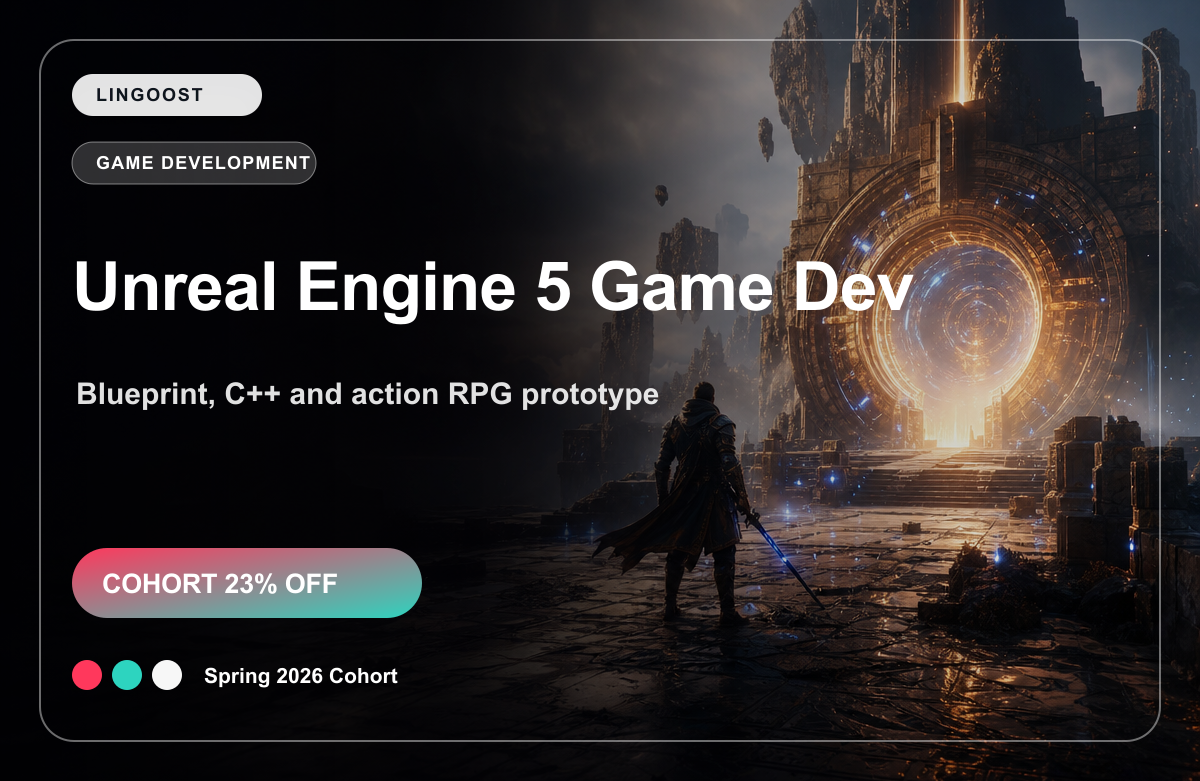
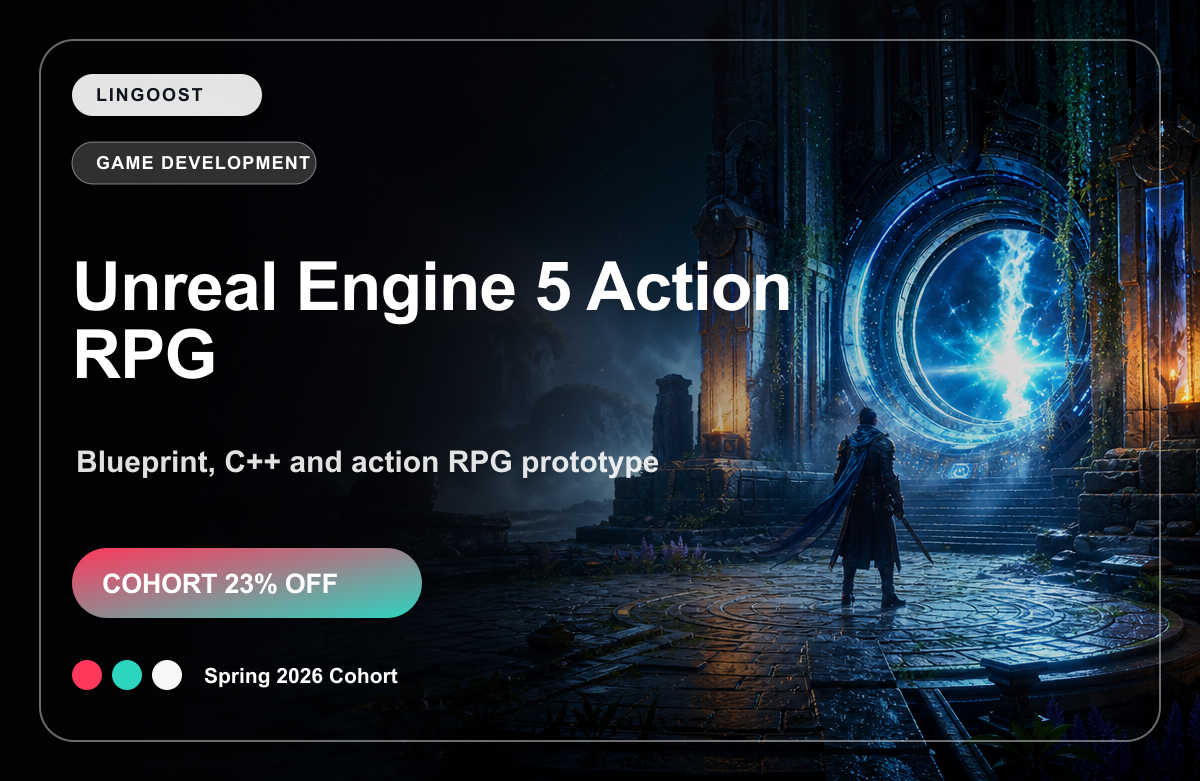
Fill game development course row

diff --git a/src/lib/mock-courses.ts b/src/lib/mock-courses.ts
@@ -63,6 +63,10 @@ export const previewImages = [
   "/course-previews/course-107.png",
   "/course-previews/course-108.png",
   "/course-previews/course-201.png",
+  "/course-previews/course-202.png",
+  "/course-previews/course-203.png",
+  "/course-previews/course-204.png",
+  "/course-previews/course-205.png",
 ]
 
 type MockLessonInput = {
@@ -900,6 +904,306 @@ export const mockCourses: MockCourse[] = [
         lessonPlan("Windows 패키징과 오류 해결", "패키징 실패 로그를 읽고 SDK, 플러그인, 경로 문제를 해결합니다.", 24),
         lessonPlan("플레이 테스트 체크리스트", "프레임, 충돌, UI, 저장, 입력을 출시 전 기준으로 점검합니다.", 20, ["playtest-checklist.xlsx"]),
         lessonPlan("포트폴리오 영상과 설명 작성", "완성한 프로토타입을 짧은 영상과 설명으로 정리해 보여주는 방법을 배웁니다.", 24),
+      ]),
+    ]),
+  },
+  {
+    id: 202,
+    title: "Unity 6 모바일 액션 게임 입문",
+    slug: "unity-6-mobile-action-game",
+    shortDescription: "Unity와 C#으로 모바일 액션 게임의 조작, 전투, UI, 빌드 과정을 완성합니다.",
+    description:
+      "Unity 6와 C#을 사용해 모바일 액션 게임 프로토타입을 처음부터 완성합니다. 터치 입력, 캐릭터 이동, 적 AI, 전투, UI, 광고/인앱 결제 확장 지점, Android 빌드까지 게임 개발 입문자가 실제 출시 흐름을 이해할 수 있게 구성했습니다.",
+    category: "게임 개발",
+    level: "입문",
+    languageCode: "ko",
+    tags: ["Unity", "C#", "모바일 게임", "게임 개발"],
+    seoKeywords: ["Unity 강의", "유니티 게임 개발", "C# 게임 개발", "모바일 게임 만들기", "게임 개발 입문", "Unity 6"],
+    targetAudience: "처음 모바일 게임을 만들어보는 입문자, Unity로 포트폴리오를 준비하는 학생, C# 기반 게임 개발을 시작하려는 수강생",
+    requirements: "기초 프로그래밍 경험이 있으면 좋습니다. Unity Hub와 Unity 6 설치가 필요합니다.",
+    learningOutcomes: ["Unity 프로젝트 구조 이해", "C# 스크립트로 캐릭터와 전투 구현", "모바일 터치 입력과 UI 구성", "Android 테스트 빌드 생성"],
+    metaTitle: "Unity 6 모바일 액션 게임 입문 | 링구스트",
+    metaDescription: "Unity 6와 C#으로 모바일 액션 게임 프로토타입을 만드는 게임 개발 입문 강의입니다.",
+    ogImageUrl: previewImages[9],
+    canonicalUrl: null,
+    enrollmentOpen: true,
+    enrollmentStartAt: "2026-05-15T00:00:00.000Z",
+    enrollmentEndAt: "2026-06-20T14:59:59.000Z",
+    enrollmentCapacity: 42,
+    enrollmentAppliedCount: 25,
+    price: 99000,
+    discountPrice: 79000,
+    imageUrl: previewImages[9],
+    createdAt: "2026-05-15T00:00:00.000Z",
+    purchaseCount: 912,
+    reviewCount: 126,
+    avgRating: 4.76,
+    likeCount: 284,
+    instructor: { id: 9202, nickname: "유니티메이커", email: "unity@seed.lingoost.local" },
+    lastUpdatedAt: "2026-05-15T00:00:00.000Z",
+    includedFeatures: ["Unity 프로젝트 템플릿", "C# 전투 스크립트", "모바일 UI 프리셋", "Android 빌드 체크리스트"],
+    relatedTopics: ["Unity", "C#", "Mobile game", "Touch input", "Action game"],
+    sections: buildMockSections(202, [
+      modulePlan("Unity 모바일 게임 개발 준비", [
+        lessonPlan("Unity 6 프로젝트와 폴더 구조", "Assets, Scenes, Scripts, Prefabs를 실제 모바일 게임 기준으로 정리합니다.", 20, ["unity-project-setup.pdf"]),
+        lessonPlan("2D와 3D 중 무엇을 선택할까", "처음 만드는 모바일 액션 게임에서 2D, 2.5D, 3D 선택 기준을 봅니다.", 18),
+        lessonPlan("씬, 게임 오브젝트, 컴포넌트", "Unity의 핵심 구성 단위를 작은 실습으로 이해합니다.", 21),
+        lessonPlan("모바일 해상도와 카메라 기본값", "여러 기기에서 깨지지 않는 화면 비율과 카메라 구성을 잡습니다.", 19),
+      ]),
+      modulePlan("C# 스크립트와 캐릭터 조작", [
+        lessonPlan("MonoBehaviour 생명주기", "Awake, Start, Update, FixedUpdate가 게임 루프에서 언제 호출되는지 익힙니다.", 22),
+        lessonPlan("캐릭터 이동과 회전", "Rigidbody와 Transform 이동의 차이를 보고 모바일 액션에 맞는 방식을 고릅니다.", 24),
+        lessonPlan("터치 입력과 가상 조이스틱", "모바일 화면에서 자연스러운 이동 입력을 구현합니다.", 23),
+        lessonPlan("애니메이션 파라미터 연결", "Animator Controller와 C# 값을 연결해 움직임과 공격 애니메이션을 제어합니다.", 22),
+      ]),
+      modulePlan("전투와 적 AI", [
+        lessonPlan("공격 판정 만들기", "범위 공격, 충돌 판정, 쿨다운을 사용해 기본 전투를 만듭니다.", 23),
+        lessonPlan("체력과 데미지 시스템", "플레이어와 적이 공통으로 사용하는 데미지 인터페이스를 설계합니다.", 22),
+        lessonPlan("간단한 추적 AI", "NavMesh 또는 거리 기반 추적으로 적이 플레이어를 따라오게 만듭니다.", 24),
+        lessonPlan("스폰과 웨이브 구조", "스테이지마다 적이 등장하고 난이도가 올라가는 흐름을 만듭니다.", 21, ["wave-design-sheet.xlsx"]),
+      ]),
+      modulePlan("UI, 사운드, 피드백", [
+        lessonPlan("체력바와 스킬 버튼", "Canvas, Anchor, Safe Area를 고려해 모바일 UI를 구성합니다.", 21),
+        lessonPlan("피격 피드백과 카메라 흔들림", "짧은 화면 효과와 진동으로 타격감을 살립니다.", 19),
+        lessonPlan("사운드 매니저 만들기", "효과음과 배경음을 분리하고 반복 재생과 볼륨 설정을 구현합니다.", 20),
+        lessonPlan("게임 오버와 재시작 플로우", "패배, 재도전, 홈으로 돌아가기 흐름을 UI로 연결합니다.", 18),
+      ]),
+      modulePlan("모바일 빌드와 출시 준비", [
+        lessonPlan("Android 빌드 설정", "패키지명, 아이콘, orientation, scripting backend를 설정합니다.", 23),
+        lessonPlan("기기 테스트와 성능 체크", "프레임 드랍, 발열, 메모리 사용을 실제 기기에서 확인합니다.", 22),
+        lessonPlan("광고와 인앱 결제 확장 지점", "MVP 단계에서 코드를 망치지 않고 수익화 지점을 남기는 방법을 봅니다.", 21),
+        lessonPlan("포트폴리오 제출용 빌드 만들기", "APK/AAB, 플레이 영상, README를 함께 준비합니다.", 20, ["mobile-release-checklist.pdf"]),
+      ]),
+      modulePlan("실전 미니 프로젝트 폴리싱", [
+        lessonPlan("게임 밸런스 빠르게 조정하기", "적 체력, 공격력, 보상 주기를 테스트하면서 재미의 기준을 잡습니다.", 20),
+        lessonPlan("스테이지 클리어 연출", "클리어 컷신, 보상 UI, 다음 스테이지 이동을 연결합니다.", 20),
+        lessonPlan("초보자가 자주 만드는 버그 수정", "입력 중복, 오브젝트 누락, 씬 전환 오류를 실제 사례로 해결합니다.", 21),
+        lessonPlan("최종 플레이 영상 촬영", "완성된 모바일 액션 게임을 포트폴리오 영상으로 정리합니다.", 19),
+      ]),
+    ]),
+  },
+  {
+    id: 203,
+    title: "Godot 4 픽셀 RPG 만들기",
+    slug: "godot-4-pixel-rpg",
+    shortDescription: "Godot 4와 GDScript로 타일맵, 대화, 전투가 있는 2D 픽셀 RPG를 만듭니다.",
+    description:
+      "가볍고 빠른 오픈소스 엔진 Godot 4로 2D 픽셀 RPG를 제작합니다. 타일맵, 플레이어 이동, NPC 대화, 턴제 전투, 인벤토리, 세이브까지 독립 게임 개발자가 자주 쓰는 구조를 작은 프로젝트로 완성합니다.",
+    category: "게임 개발",
+    level: "입문",
+    languageCode: "ko",
+    tags: ["Godot", "GDScript", "Pixel RPG", "2D 게임"],
+    seoKeywords: ["Godot 강의", "고도 엔진 강의", "GDScript", "픽셀 RPG 만들기", "2D 게임 개발", "인디 게임 개발"],
+    targetAudience: "부담 없이 게임 개발을 시작하고 싶은 입문자, 픽셀 RPG를 만들고 싶은 인디 개발자, Godot을 처음 배우는 수강생",
+    requirements: "프로그래밍 기초가 있으면 좋지만, GDScript 문법은 강의 안에서 같이 다룹니다.",
+    learningOutcomes: ["Godot 4 노드와 씬 구조 이해", "타일맵 기반 2D 월드 구성", "NPC 대화와 전투 시스템 구현", "세이브 파일과 간단한 퀘스트 흐름 제작"],
+    metaTitle: "Godot 4 픽셀 RPG 만들기 | 링구스트",
+    metaDescription: "Godot 4와 GDScript로 타일맵, 대화, 전투, 인벤토리가 있는 2D 픽셀 RPG를 만드는 강의입니다.",
+    ogImageUrl: previewImages[10],
+    canonicalUrl: null,
+    enrollmentOpen: true,
+    enrollmentStartAt: "2026-05-15T00:00:00.000Z",
+    enrollmentEndAt: "2026-06-18T14:59:59.000Z",
+    enrollmentCapacity: 48,
+    enrollmentAppliedCount: 31,
+    price: 69000,
+    discountPrice: 49000,
+    imageUrl: previewImages[10],
+    createdAt: "2026-05-15T00:00:00.000Z",
+    purchaseCount: 744,
+    reviewCount: 98,
+    avgRating: 4.71,
+    likeCount: 241,
+    instructor: { id: 9203, nickname: "인디도트", email: "godot@seed.lingoost.local" },
+    lastUpdatedAt: "2026-05-15T00:00:00.000Z",
+    includedFeatures: ["Godot 4 샘플 프로젝트", "픽셀 타일셋 가이드", "대화 데이터 예제", "RPG 세이브 구조"],
+    relatedTopics: ["Godot", "GDScript", "Pixel art", "2D RPG", "Indie game"],
+    sections: buildMockSections(203, [
+      modulePlan("Godot 4 기초와 프로젝트 구조", [
+        lessonPlan("Godot을 게임 입문에 쓰기 좋은 이유", "엔진의 가벼움, 노드 구조, 2D 워크플로우를 다른 엔진과 비교합니다.", 16, ["godot-rpg-roadmap.pdf"]),
+        lessonPlan("씬과 노드 구조 이해", "Player, Map, UI, Manager를 씬으로 나누는 기준을 익힙니다.", 19),
+        lessonPlan("GDScript 핵심 문법", "변수, 함수, 시그널, 타입 힌트를 게임 예제로 익힙니다.", 22),
+        lessonPlan("프로젝트 폴더와 리소스 규칙", "씬, 스크립트, 타일셋, 사운드 파일을 나중에 커지지 않게 정리합니다.", 18),
+      ]),
+      modulePlan("타일맵과 플레이어 이동", [
+        lessonPlan("TileMap으로 마을 만들기", "픽셀 타일셋을 가져오고 충돌 레이어가 있는 마을 맵을 만듭니다.", 22),
+        lessonPlan("플레이어 4방향 이동", "CharacterBody2D와 입력 맵으로 고전 RPG 이동을 구현합니다.", 21),
+        lessonPlan("카메라와 맵 경계", "Camera2D가 플레이어를 따라오되 맵 밖을 보지 않게 조정합니다.", 18),
+        lessonPlan("상호작용 가능한 오브젝트", "상자, 문, 표지판을 같은 인터페이스로 처리합니다.", 20),
+      ]),
+      modulePlan("NPC 대화와 퀘스트", [
+        lessonPlan("대화 데이터 구조 만들기", "JSON 또는 Resource로 대화 문장을 관리하는 방식을 봅니다.", 22),
+        lessonPlan("대화 UI와 타이핑 효과", "말풍선, 이름표, 다음 버튼, 텍스트 등장 효과를 만듭니다.", 21),
+        lessonPlan("퀘스트 상태 관리", "수락 전, 진행 중, 완료 상태를 플레이어 데이터에 저장합니다.", 20),
+        lessonPlan("NPC 조건 분기", "퀘스트 상태에 따라 다른 대사를 보여주는 흐름을 만듭니다.", 19, ["dialogue-state-table.xlsx"]),
+      ]),
+      modulePlan("턴제 전투 시스템", [
+        lessonPlan("전투 씬 전환", "월드에서 적과 마주쳤을 때 전투 씬으로 넘어가는 구조를 만듭니다.", 20),
+        lessonPlan("플레이어와 몬스터 스탯", "HP, 공격력, 방어력, 속도를 데이터로 분리합니다.", 21),
+        lessonPlan("턴 순서와 명령 선택", "공격, 방어, 아이템 사용 같은 기본 명령을 구현합니다.", 23),
+        lessonPlan("전투 결과와 경험치", "승리, 패배, 보상, 레벨업 흐름을 정리합니다.", 20),
+      ]),
+      modulePlan("인벤토리와 저장", [
+        lessonPlan("아이템 데이터베이스", "포션, 장비, 퀘스트 아이템을 Resource로 관리합니다.", 20),
+        lessonPlan("인벤토리 UI 구성", "아이템 목록, 선택 상태, 설명 패널을 만듭니다.", 21),
+        lessonPlan("Save/Load 구현", "플레이어 위치, 퀘스트, 인벤토리를 파일로 저장하고 불러옵니다.", 22),
+        lessonPlan("웹/데스크톱 내보내기", "Godot Export Preset을 사용해 테스트 빌드를 만듭니다.", 19, ["godot-export-checklist.pdf"]),
+      ]),
+      modulePlan("인디 RPG 완성도 높이기", [
+        lessonPlan("타이틀 화면과 메뉴 흐름", "시작, 이어하기, 설정 메뉴를 작은 게임답게 구성합니다.", 20),
+        lessonPlan("마을 NPC와 전투 보상 연결", "퀘스트 완료와 전투 보상이 월드 상태에 반영되도록 만듭니다.", 21),
+        lessonPlan("사운드와 화면 전환 폴리싱", "픽셀 RPG에 어울리는 효과음, 페이드, 전환 연출을 붙입니다.", 20),
+        lessonPlan("인디 게임 소개 페이지 만들기", "스크린샷, 조작법, 다운로드 링크를 정리해 공개 가능한 형태로 마무리합니다.", 19),
+      ]),
+    ]),
+  },
+  {
+    id: 204,
+    title: "Blender에서 Unreal까지 게임 환경 아트",
+    slug: "blender-to-unreal-environment-art",
+    shortDescription: "Blender 모델링과 Unreal Engine 라이팅으로 포트폴리오용 게임 환경을 완성합니다.",
+    description:
+      "게임 환경 아티스트 입문자를 위한 실전 강의입니다. Blender에서 모듈러 에셋을 만들고, Unreal Engine으로 가져와 머티리얼, 라이팅, 포스트 프로세스, 카메라 연출을 적용해 AAA 느낌의 환경 아트 포트폴리오 장면을 완성합니다.",
+    category: "게임 개발",
+    level: "입문-중급",
+    languageCode: "ko",
+    tags: ["Blender", "Unreal Engine", "환경 아트", "레벨 디자인"],
+    seoKeywords: ["게임 환경 아트", "Blender 강의", "언리얼 환경 아트", "Unreal Engine 라이팅", "게임 그래픽 포트폴리오"],
+    targetAudience: "게임 배경 아트를 시작하려는 아티스트, Blender에서 Unreal Engine으로 넘어가고 싶은 수강생, 포트폴리오 장면을 만들고 싶은 사람",
+    requirements: "Blender 기본 조작 경험이 있으면 좋습니다. Unreal Engine 5 설치가 필요합니다.",
+    learningOutcomes: ["모듈러 환경 에셋 제작", "Blender에서 Unreal로 에셋 가져오기", "머티리얼과 라이팅으로 장면 완성", "게임 환경 아트 포트폴리오 샷 제작"],
+    metaTitle: "Blender에서 Unreal까지 게임 환경 아트 | 링구스트",
+    metaDescription: "Blender 모델링과 Unreal Engine 라이팅으로 포트폴리오용 게임 환경 아트를 완성하는 강의입니다.",
+    ogImageUrl: previewImages[11],
+    canonicalUrl: null,
+    enrollmentOpen: true,
+    enrollmentStartAt: "2026-05-15T00:00:00.000Z",
+    enrollmentEndAt: "2026-06-22T14:59:59.000Z",
+    enrollmentCapacity: 30,
+    enrollmentAppliedCount: 17,
+    price: 109000,
+    discountPrice: 84000,
+    imageUrl: previewImages[11],
+    createdAt: "2026-05-15T00:00:00.000Z",
+    purchaseCount: 506,
+    reviewCount: 64,
+    avgRating: 4.84,
+    likeCount: 192,
+    instructor: { id: 9204, nickname: "월드아티스트", email: "environment@seed.lingoost.local" },
+    lastUpdatedAt: "2026-05-15T00:00:00.000Z",
+    includedFeatures: ["모듈러 에셋 제작표", "Unreal 임포트 프리셋", "라이팅 체크리스트", "포트폴리오 샷 가이드"],
+    relatedTopics: ["Blender", "Unreal Engine", "Environment art", "Lighting", "Portfolio"],
+    sections: buildMockSections(204, [
+      modulePlan("환경 아트 포트폴리오 설계", [
+        lessonPlan("좋은 게임 환경 샷의 구성", "실루엣, 동선, 명암, 스토리텔링을 포트폴리오 기준으로 봅니다.", 18, ["environment-shot-plan.pdf"]),
+        lessonPlan("레퍼런스 보드 만들기", "무드, 재질, 색, 구조를 구분해 레퍼런스를 모읍니다.", 17),
+        lessonPlan("모듈러 방식 이해", "벽, 기둥, 바닥, 장식 요소를 반복 가능한 에셋으로 나눕니다.", 20),
+        lessonPlan("스케일과 그리드 규칙", "Unreal에서 어긋나지 않도록 Blender 단위와 피벗을 맞춥니다.", 19),
+      ]),
+      modulePlan("Blender 모듈러 에셋 제작", [
+        lessonPlan("기본 형태 블로킹", "큰 형태부터 잡아 환경의 비율과 동선을 검증합니다.", 21),
+        lessonPlan("벽, 계단, 기둥 세트 만들기", "반복 배치 가능한 기본 구조물을 제작합니다.", 24),
+        lessonPlan("디테일 에셋과 데칼 준비", "작은 장식, 파손, 표면 디테일을 분리해 준비합니다.", 23),
+        lessonPlan("UV와 텍셀 밀도 기초", "게임 엔진에서 재질이 깨지지 않도록 UV 기준을 세웁니다.", 22),
+      ]),
+      modulePlan("Unreal Engine 임포트와 배치", [
+        lessonPlan("FBX 임포트 설정", "Scale, collision, material slot을 안전하게 가져옵니다.", 20),
+        lessonPlan("모듈러 에셋으로 레벨 조립", "그리드 스냅과 피벗을 사용해 빠르게 공간을 만듭니다.", 23),
+        lessonPlan("머티리얼 인스턴스 구성", "색, roughness, normal을 파라미터로 조정할 수 있게 합니다.", 21),
+        lessonPlan("Nanite와 LOD 판단", "에셋 특성에 따라 Nanite를 쓸지 LOD를 만들지 결정합니다.", 20),
+      ]),
+      modulePlan("라이팅과 분위기", [
+        lessonPlan("Lumen 기반 기본 조명", "Directional Light, Sky Light, Exposure를 세팅합니다.", 22),
+        lessonPlan("주목 지점을 만드는 빛", "플레이어나 카메라가 봐야 할 곳에 시선을 유도합니다.", 21),
+        lessonPlan("안개와 포스트 프로세스", "Volumetric Fog, Color Grading으로 장면의 깊이를 만듭니다.", 22),
+        lessonPlan("스크린샷용 카메라 세팅", "FOV, 초점거리, 구도를 조정해 포트폴리오 샷을 만듭니다.", 20),
+      ]),
+      modulePlan("최종 정리와 제출", [
+        lessonPlan("장면 최적화 체크", "불필요한 에셋, 과도한 머티리얼, 무거운 조명을 정리합니다.", 20),
+        lessonPlan("비포/애프터 비교 이미지", "블로킹부터 최종 샷까지 과정을 보여주는 이미지를 준비합니다.", 18),
+        lessonPlan("아트스테이션 업로드 구성", "대표 이미지, 과정 이미지, 설명 문장을 정리합니다.", 19),
+        lessonPlan("포트폴리오 리뷰 체크리스트", "채용자가 보는 기준으로 장면을 다시 점검합니다.", 20, ["environment-portfolio-checklist.pdf"]),
+      ]),
+      modulePlan("쇼케이스 씬 폴리싱", [
+        lessonPlan("카메라 동선과 시퀀서", "짧은 포트폴리오 영상을 위해 카메라 이동과 컷을 구성합니다.", 20),
+        lessonPlan("히어로 에셋 강조하기", "가장 중요한 오브젝트가 한눈에 보이도록 배치와 조명을 다듬습니다.", 21),
+        lessonPlan("스크린샷별 색감 보정", "서로 다른 각도의 이미지가 같은 프로젝트처럼 보이도록 톤을 맞춥니다.", 20),
+        lessonPlan("제출용 패키지 정리", "원본 파일, 엔진 프로젝트, 렌더 이미지, 설명 문서를 묶습니다.", 19),
+      ]),
+    ]),
+  },
+  {
+    id: 205,
+    title: "Unreal Engine 5 Niagara VFX 마스터",
+    slug: "unreal-engine-5-niagara-vfx",
+    shortDescription: "Niagara로 마법, 폭발, 포털, 타격 이펙트를 만들며 게임 VFX 흐름을 익힙니다.",
+    description:
+      "Unreal Engine 5의 Niagara 시스템을 사용해 게임 VFX를 제작합니다. 파티클 기본기부터 마법 포털, 타격 스파크, 폭발, 환경 이펙트, 머티리얼 연동, 성능 최적화까지 실무에서 쓰는 흐름으로 구성했습니다.",
+    category: "게임 개발",
+    level: "중급",
+    languageCode: "ko",
+    tags: ["Unreal Engine 5", "Niagara", "VFX", "게임 그래픽"],
+    seoKeywords: ["Niagara 강의", "언리얼 VFX", "Unreal Engine 5 이펙트", "게임 이펙트", "파티클 시스템", "게임 그래픽 강의"],
+    targetAudience: "Unreal Engine 기본 조작을 알고 있고, 게임 이펙트와 VFX 포트폴리오를 만들고 싶은 수강생",
+    requirements: "Unreal Engine 5 기본 조작 경험, 머티리얼 기초를 알고 있으면 좋습니다.",
+    learningOutcomes: ["Niagara Emitter와 System 구조 이해", "마법/타격/폭발 이펙트 제작", "머티리얼과 파티클 파라미터 연결", "게임 성능을 고려한 VFX 최적화"],
+    metaTitle: "Unreal Engine 5 Niagara VFX 마스터 | 링구스트",
+    metaDescription: "Unreal Engine 5 Niagara로 포털, 폭발, 타격 이펙트를 제작하는 게임 VFX 강의입니다.",
+    ogImageUrl: previewImages[12],
+    canonicalUrl: null,
+    enrollmentOpen: true,
+    enrollmentStartAt: "2026-05-15T00:00:00.000Z",
+    enrollmentEndAt: "2026-06-26T14:59:59.000Z",
+    enrollmentCapacity: 34,
+    enrollmentAppliedCount: 21,
+    price: 89000,
+    discountPrice: 69000,
+    imageUrl: previewImages[12],
+    createdAt: "2026-05-15T00:00:00.000Z",
+    purchaseCount: 682,
+    reviewCount: 91,
+    avgRating: 4.88,
+    likeCount: 255,
+    instructor: { id: 9205, nickname: "이펙트랩", email: "vfx@seed.lingoost.local" },
+    lastUpdatedAt: "2026-05-15T00:00:00.000Z",
+    includedFeatures: ["Niagara 샘플 시스템", "VFX 머티리얼 프리셋", "타격 이펙트 예제", "최적화 체크리스트"],
+    relatedTopics: ["Unreal Engine 5", "Niagara", "VFX", "Particle system", "Game effects"],
+    sections: buildMockSections(205, [
+      modulePlan("Niagara 기본 구조", [
+        lessonPlan("Niagara가 Cascade와 다른 점", "UE5에서 Niagara를 사용하는 이유와 작업 흐름을 정리합니다.", 18, ["niagara-map.pdf"]),
+        lessonPlan("Emitter, System, Module", "Niagara의 세 가지 핵심 단위를 예제로 구분합니다.", 21),
+        lessonPlan("Spawn과 Update 흐름", "파티클이 태어나고 움직이고 사라지는 과정을 모듈로 제어합니다.", 22),
+        lessonPlan("속성 창과 디버깅 보기", "파라미터, bounds, preview 설정을 확인하는 습관을 만듭니다.", 19),
+      ]),
+      modulePlan("기본 파티클 이펙트", [
+        lessonPlan("스파크와 먼지 만들기", "속도, 중력, 크기, 색 변화를 사용해 기본 이펙트를 만듭니다.", 21),
+        lessonPlan("리본과 궤적 표현", "검기, 총알 궤적, 이동 흔적에 쓰이는 Ribbon Renderer를 다룹니다.", 23),
+        lessonPlan("Sprite와 Mesh Renderer", "2D 텍스처 파티클과 3D 메시 파티클의 차이를 봅니다.", 21),
+        lessonPlan("랜덤성과 타이밍", "같은 이펙트가 반복되어도 지루하지 않게 변주를 줍니다.", 20),
+      ]),
+      modulePlan("전투 이펙트 제작", [
+        lessonPlan("근접 타격 스파크", "타격 위치, 방향, 지속 시간을 게임 이벤트와 연결합니다.", 21),
+        lessonPlan("폭발 이펙트 레이어링", "섬광, 충격파, 연기, 파편을 레이어로 쌓습니다.", 24),
+        lessonPlan("마법 투사체 만들기", "이동하는 projectile과 꼬리 이펙트를 함께 구성합니다.", 22),
+        lessonPlan("피격 피드백과 사운드 큐", "VFX가 사운드, 카메라 흔들림과 함께 반응하도록 설계합니다.", 19),
+      ]),
+      modulePlan("포털과 환경 VFX", [
+        lessonPlan("원형 포털 머티리얼", "마스크, 노이즈, emissive를 이용해 포털 표면을 만듭니다.", 23),
+        lessonPlan("공간을 채우는 에너지 입자", "포털 주변을 도는 입자와 빛줄기를 구성합니다.", 21),
+        lessonPlan("안개, 먼지, 낙엽 같은 환경 이펙트", "월드 분위기를 만드는 저강도 이펙트를 만듭니다.", 20),
+        lessonPlan("시퀀서로 이펙트 쇼케이스", "포트폴리오용 짧은 VFX 클립을 카메라와 함께 렌더링합니다.", 22, ["vfx-showcase-plan.pdf"]),
+      ]),
+      modulePlan("최적화와 포트폴리오", [
+        lessonPlan("이펙트 비용을 보는 기준", "Overdraw, particle count, tick cost를 확인합니다.", 22),
+        lessonPlan("LOD와 Scalability 설정", "기기 성능에 따라 이펙트 품질을 조절합니다.", 20),
+        lessonPlan("실제 게임 이벤트에 붙이기", "캐릭터 공격, 스킬 발동, 피격 이벤트에 Niagara를 연결합니다.", 21),
+        lessonPlan("VFX 포트폴리오 정리", "대표 이펙트, breakdown, 영상 캡처를 구성합니다.", 19, ["vfx-portfolio-checklist.pdf"]),
+      ]),
+      modulePlan("스킬 이펙트 쇼케이스 제작", [
+        lessonPlan("스킬 3종 세트 기획", "근접 공격, 원거리 투사체, 광역 스킬을 하나의 세트로 구성합니다.", 20),
+        lessonPlan("이펙트 타이밍 맞추기", "캐릭터 모션과 파티클이 어긋나지 않도록 타임라인을 조정합니다.", 21),
+        lessonPlan("배경과 이펙트 대비 조절", "어두운 배경과 밝은 파티클 사이의 가독성을 다듬습니다.", 20),
+        lessonPlan("쇼릴 영상으로 렌더링", "포트폴리오용 20초 VFX 쇼릴을 캡처하고 정리합니다.", 19),
       ]),
     ]),
   },

diff --git a/src/app/page-wrapper.tsx b/src/app/page-wrapper.tsx
@@ -248,7 +248,7 @@ export default function HomePageWrapper() {
         </div>
       </section>
 
-      <section className="mx-auto max-w-7xl px-4 pb-16 md:px-6">
+      <section className="mx-auto max-w-[1440px] px-4 pb-16 md:px-6">
         <div className="mb-5 flex items-end justify-between gap-4">
           <div>
             <h2 className="text-[22px] font-medium leading-[1.18]">시즌제 강의 둘러보기</h2>
@@ -271,7 +271,7 @@ export default function HomePageWrapper() {
             조건에 맞는 강의가 아직 없습니다.
           </div>
         ) : (
-          <div className="grid grid-cols-1 gap-x-6 gap-y-9 sm:grid-cols-2 lg:grid-cols-4">
+          <div className="grid grid-cols-1 gap-x-6 gap-y-9 sm:grid-cols-2 lg:grid-cols-4 xl:grid-cols-5">
             {courses.map((course, index) => (
               <CourseTile
                 key={`${course.id}-${course.title}`}
